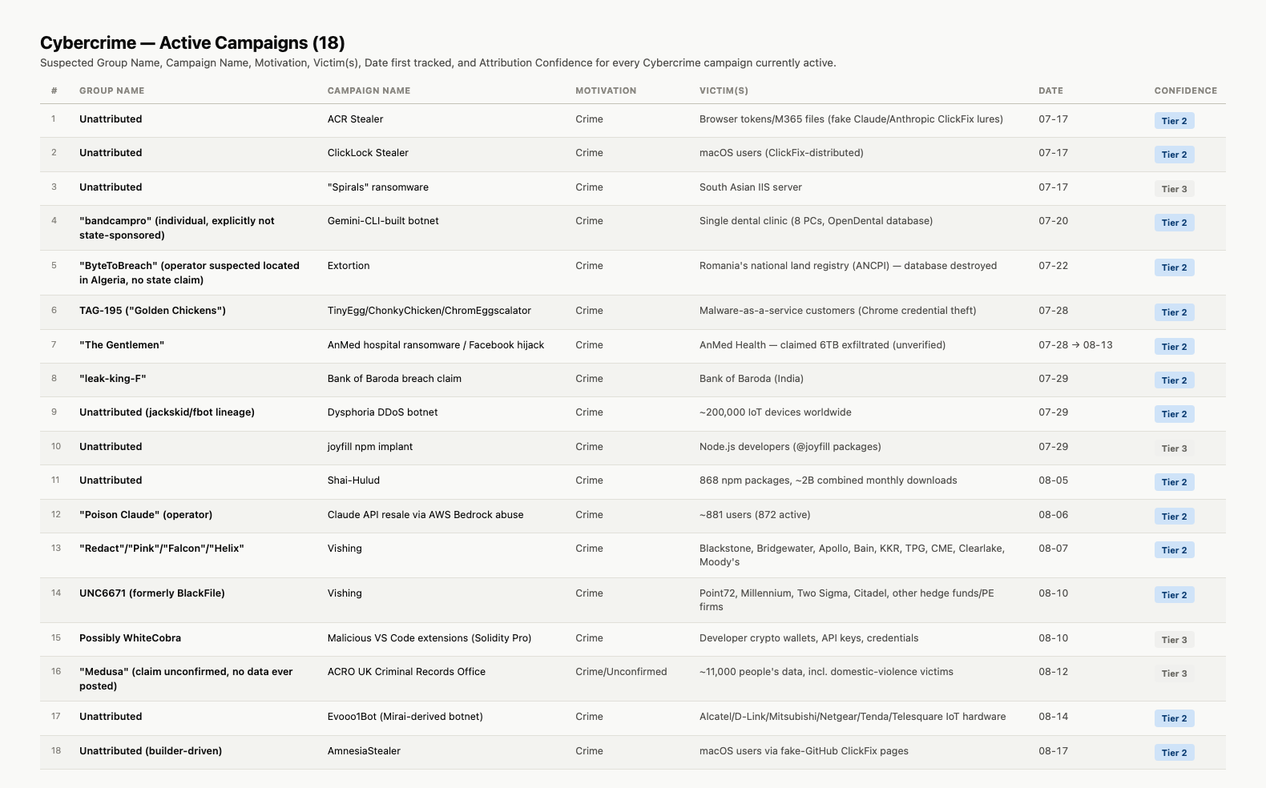
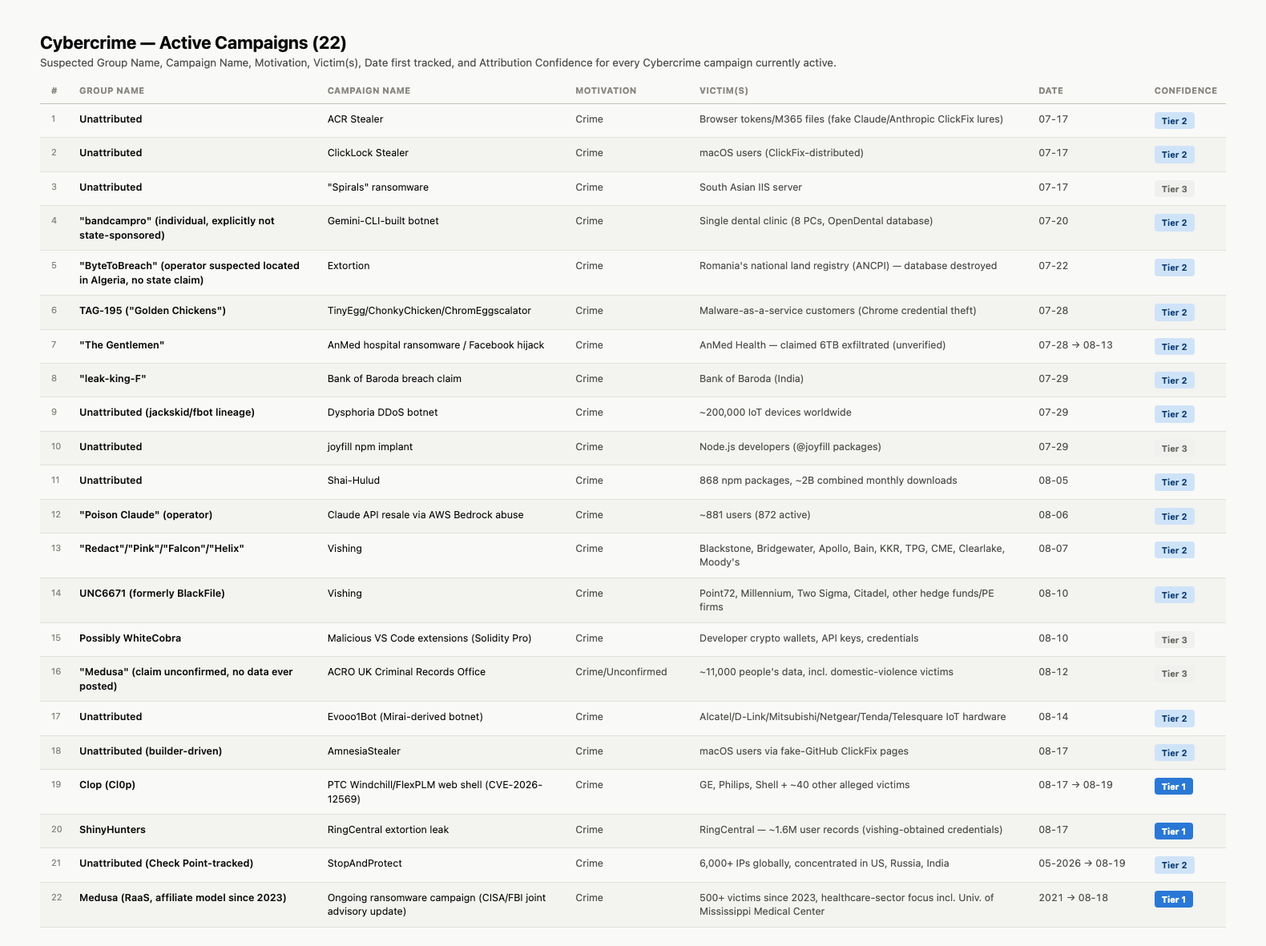
2026-08-19: Adversary Tracking Report (dated snapshot)

diff --git a/reports/2026-08-19-adversary-tracking-report.md b/reports/2026-08-19-adversary-tracking-report.md
@@ -8,9 +8,9 @@
 
 ## At a Glance
 
-**73 campaigns tracked. 68 Active · 1 Dormant · 4 Concluded.**
+**81 campaigns tracked. 76 Active · 1 Dormant · 4 Concluded.**
 
-Active, by actor type: **Nation-State-Affiliated 42** (China 15 · Russia 9 · Iran 9 · North Korea 7 · Israel 2) **· Cybercrime 18 · Hacktivism 0 · Unclear 8**
+Active, by actor type: **Nation-State-Affiliated 43** (China 15 · Russia 9 · Iran 10 · North Korea 7 · Israel 2) **· Cybercrime 22 · Hacktivism 0 · Unclear 11**
 
 <img src="https://raw.githubusercontent.com/raceBannon99/The-Nexus/main/reports/images/2026-08-19-adversary-tracking-report/adversary-tracking-heatmap.png">
 
@@ -22,6 +22,8 @@ Each subsection below is a single designed table image — Group Name, Campaign 
 
 #### China (15)
 
+*Row 15 (VMware vCenter/Babuk) updated 08-19: added to CISA KEV catalog.*
+
 <img src="https://raw.githubusercontent.com/raceBannon99/The-Nexus/main/reports/images/2026-08-19-adversary-tracking-report/adversary-tracking-china-table.png">
 
 **Sources:** 1. [Unattributed — Daxin backdoor](https://github.com/raceBannon99/The-Nexus/blob/main/reports/2026-07-16-daily-intelligence-report.md) · 2. [Volt Typhoon — IoT-relay infrastructure](https://github.com/raceBannon99/The-Nexus/blob/main/reports/2026-07-22-daily-intelligence-report.md) · 3. [Violet Typhoon (MSS-linked)](https://github.com/raceBannon99/The-Nexus/blob/main/reports/2026-07-22-daily-intelligence-report.md) · 4. [TA4922 — Operation DragonReturn](https://github.com/raceBannon99/The-Nexus/blob/main/reports/2026-07-27-daily-intelligence-report.md) · 5. [Unattributed — Flying Eagle RAT](https://github.com/raceBannon99/The-Nexus/blob/main/reports/2026-07-29-daily-intelligence-report.md) · 6. ["knaithe"/"KnYuan" — 1DayNews/DeepSeek-via-Telegram](https://github.com/raceBannon99/The-Nexus/blob/main/reports/2026-07-31-daily-intelligence-report.md) · 7. ["jkcing@apt" — DarkSword/GHOSTBLADE](https://github.com/raceBannon99/The-Nexus/blob/main/reports/2026-08-03-daily-intelligence-report.md) · 8. [Possibly Mustang Panda — QuickFox/FDMTP](https://github.com/raceBannon99/The-Nexus/blob/main/reports/2026-08-05-daily-intelligence-report.md) · 9. [Unattributed — React2Shell rapid weaponization](https://github.com/raceBannon99/The-Nexus/blob/main/reports/2026-08-05-daily-intelligence-report.md) · 10. [Unattributed — ENDLESSDOORS](https://github.com/raceBannon99/The-Nexus/blob/main/reports/2026-08-06-daily-intelligence-report.md) · 11. [Unattributed — LightSpy spyware](https://github.com/raceBannon99/The-Nexus/blob/main/reports/2026-08-10-daily-intelligence-report.md) · 12. [Unattributed — Royal Navy Kraken drone comms](https://github.com/raceBannon99/The-Nexus/blob/main/reports/2026-08-12-daily-intelligence-report.md) · 13. [Unattributed (suspected) — Hermes/OpenClaw AI attack](https://github.com/raceBannon99/The-Nexus/blob/main/reports/2026-08-13-daily-intelligence-report.md) · 14. [Jewelbug (CL-STA-0049 / Earth Alux / REF7707)](https://github.com/raceBannon99/The-Nexus/blob/main/reports/2026-08-14-daily-intelligence-report.md) · 15. [Unattributed (moderate conf.) — VMware vCenter/Babuk ransomware](https://github.com/raceBannon99/The-Nexus/blob/main/reports/2026-08-17-daily-intelligence-report.md)
@@ -32,11 +34,11 @@ Each subsection below is a single designed table image — Group Name, Campaign 
 
 **Sources:** 1. [Unattributed (Dutch AIVD/MIVD) — IP camera espionage](https://github.com/raceBannon99/The-Nexus/blob/main/reports/2026-07-14-daily-intelligence-report.md) · 2. [Unattributed — critical infrastructure targeting](https://github.com/raceBannon99/The-Nexus/blob/main/reports/2026-07-14-daily-intelligence-report.md) · 3. [FSB "Center 16" — router targeting](https://github.com/raceBannon99/The-Nexus/blob/main/reports/2026-07-16-daily-intelligence-report.md) · 4. [Turla / FSB 16th Centre — EU cyber-espionage](https://github.com/raceBannon99/The-Nexus/blob/main/reports/2026-07-17-daily-intelligence-report.md) · 5. [Laundry Bear / Void Blizzard / TA488](https://github.com/raceBannon99/The-Nexus/blob/main/reports/2026-07-27-daily-intelligence-report.md) · 6. [APT28 (Fancy Bear, GRU) — Wi-Fi gateway DNS hijack](https://github.com/raceBannon99/The-Nexus/blob/main/reports/2026-07-28-daily-intelligence-report.md) · 7. [Midnight Blizzard (APT29/Cozy Bear, SVR) — hotel Wi-Fi](https://github.com/raceBannon99/The-Nexus/blob/main/reports/2026-08-06-daily-intelligence-report.md) · 8. [Sandworm (GRU) — SopraVPN](https://github.com/raceBannon99/The-Nexus/blob/main/reports/2026-08-12-daily-intelligence-report.md) · 9. [Electrum APT — winter OT intrusion](https://github.com/raceBannon99/The-Nexus/blob/main/reports/2026-08-12-daily-intelligence-report.md)
 
-#### Iran (9)
+#### Iran (10)
 
 <img src="https://raw.githubusercontent.com/raceBannon99/The-Nexus/main/reports/images/2026-08-19-adversary-tracking-report/adversary-tracking-iran-table.png">
 
-**Sources:** 1. [Unattributed — ad-tech/mobile network tracking](https://github.com/raceBannon99/The-Nexus/blob/main/reports/2026-07-16-daily-intelligence-report.md) · 2. [APT42 (TA453) — SpearSpecter / TAMECAT](https://github.com/raceBannon99/The-Nexus/blob/main/reports/2026-07-20-daily-intelligence-report.md) · 3. [MuddyWater (MOIS) — Operation Olalampo / Dindoor](https://github.com/raceBannon99/The-Nexus/blob/main/reports/2026-07-23-daily-intelligence-report.md) · 4. [APT42 (IRGC)](https://github.com/raceBannon99/The-Nexus/blob/main/reports/2026-07-23-daily-intelligence-report.md) · 5. [Prince of Persia (Infy) — 19-year operation](https://github.com/raceBannon99/The-Nexus/blob/main/reports/2026-07-23-daily-intelligence-report.md) · 6. [APT34 (OilRig)](https://github.com/raceBannon99/The-Nexus/blob/main/reports/2026-07-23-daily-intelligence-report.md) · 7. [Unattributed — OT/ICS targeting](https://github.com/raceBannon99/The-Nexus/blob/main/reports/2026-07-23-daily-intelligence-report.md) · 8. [TeamPCP (possibly) — ShadowRay 2.0/IronErn, TA-NATALSTATUS](https://github.com/raceBannon99/The-Nexus/blob/main/reports/2026-08-07-daily-intelligence-report.md) · 9. [Unattributed — cyberwar escalation, SS7 troop tracking](https://github.com/raceBannon99/The-Nexus/blob/main/reports/2026-08-17-daily-intelligence-report.md)
+**Sources:** 1. [Unattributed — ad-tech/mobile network tracking](https://github.com/raceBannon99/The-Nexus/blob/main/reports/2026-07-16-daily-intelligence-report.md) · 2. [APT42 (TA453) — SpearSpecter / TAMECAT](https://github.com/raceBannon99/The-Nexus/blob/main/reports/2026-07-20-daily-intelligence-report.md) · 3. [MuddyWater (MOIS) — Operation Olalampo / Dindoor](https://github.com/raceBannon99/The-Nexus/blob/main/reports/2026-07-23-daily-intelligence-report.md) · 4. [APT42 (IRGC)](https://github.com/raceBannon99/The-Nexus/blob/main/reports/2026-07-23-daily-intelligence-report.md) · 5. [Prince of Persia (Infy) — 19-year operation](https://github.com/raceBannon99/The-Nexus/blob/main/reports/2026-07-23-daily-intelligence-report.md) · 6. [APT34 (OilRig)](https://github.com/raceBannon99/The-Nexus/blob/main/reports/2026-07-23-daily-intelligence-report.md) · 7. [Unattributed — OT/ICS targeting](https://github.com/raceBannon99/The-Nexus/blob/main/reports/2026-07-23-daily-intelligence-report.md) · 8. [TeamPCP (possibly) — ShadowRay 2.0/IronErn, TA-NATALSTATUS](https://github.com/raceBannon99/The-Nexus/blob/main/reports/2026-08-07-daily-intelligence-report.md) · 9. [Unattributed — cyberwar escalation, SS7 troop tracking](https://github.com/raceBannon99/The-Nexus/blob/main/reports/2026-08-17-daily-intelligence-report.md) · 10. [Mabna Institute (IRGC-directed) — decade-long academic/IP theft campaign](https://github.com/raceBannon99/The-Nexus/blob/main/reports/2026-08-19-daily-intelligence-report.md)
 
 #### North Korea (7)
 
@@ -52,11 +54,11 @@ Each subsection below is a single designed table image — Group Name, Campaign 
 
 ### Non-State & Unclear (26)
 
-#### Cybercrime (18)
+#### Cybercrime (22)
 
 <img src="https://raw.githubusercontent.com/raceBannon99/The-Nexus/main/reports/images/2026-08-19-adversary-tracking-report/adversary-tracking-cybercrime-table.png">
 
-**Sources:** 1. [Unattributed — ACR Stealer](https://github.com/raceBannon99/The-Nexus/blob/main/reports/2026-07-17-daily-intelligence-report.md) · 2. [Unattributed — ClickLock Stealer](https://github.com/raceBannon99/The-Nexus/blob/main/reports/2026-07-17-daily-intelligence-report.md) · 3. [Unattributed — "Spirals" ransomware](https://github.com/raceBannon99/The-Nexus/blob/main/reports/2026-07-17-daily-intelligence-report.md) · 4. ["bandcampro" — Gemini-CLI-built botnet](https://github.com/raceBannon99/The-Nexus/blob/main/reports/2026-07-20-daily-intelligence-report.md) · 5. ["ByteToBreach" — extortion](https://github.com/raceBannon99/The-Nexus/blob/main/reports/2026-07-22-daily-intelligence-report.md) · 6. [TAG-195 ("Golden Chickens")](https://github.com/raceBannon99/The-Nexus/blob/main/reports/2026-07-28-daily-intelligence-report.md) · 7. ["The Gentlemen" — AnMed hospital ransomware](https://github.com/raceBannon99/The-Nexus/blob/main/reports/2026-07-28-daily-intelligence-report.md) · 8. ["leak-king-F" — Bank of Baroda breach claim](https://github.com/raceBannon99/The-Nexus/blob/main/reports/2026-07-29-daily-intelligence-report.md) · 9. [Unattributed — Dysphoria DDoS botnet](https://github.com/raceBannon99/The-Nexus/blob/main/reports/2026-07-29-daily-intelligence-report.md) · 10. [Unattributed — joyfill npm implant](https://github.com/raceBannon99/The-Nexus/blob/main/reports/2026-07-29-daily-intelligence-report.md) · 11. [Unattributed — Shai-Hulud](https://github.com/raceBannon99/The-Nexus/blob/main/reports/2026-08-05-daily-intelligence-report.md) · 12. ["Poison Claude" — Claude API resale via AWS Bedrock abuse](https://github.com/raceBannon99/The-Nexus/blob/main/reports/2026-08-06-daily-intelligence-report.md) · 13. ["Redact"/"Pink"/"Falcon"/"Helix" — vishing](https://github.com/raceBannon99/The-Nexus/blob/main/reports/2026-08-07-daily-intelligence-report.md) · 14. [UNC6671 (formerly BlackFile) — vishing](https://github.com/raceBannon99/The-Nexus/blob/main/reports/2026-08-10-daily-intelligence-report.md) · 15. [Possibly WhiteCobra — malicious VS Code extensions](https://github.com/raceBannon99/The-Nexus/blob/main/reports/2026-08-10-daily-intelligence-report.md) · 16. ["Medusa" (unconfirmed) — ACRO UK Criminal Records Office](https://github.com/raceBannon99/The-Nexus/blob/main/reports/2026-08-12-daily-intelligence-report.md) · 17. [Unattributed — Evooo1Bot](https://github.com/raceBannon99/The-Nexus/blob/main/reports/2026-08-14-daily-intelligence-report.md) · 18. [Unattributed (builder-driven) — AmnesiaStealer](https://github.com/raceBannon99/The-Nexus/blob/main/reports/2026-08-17-daily-intelligence-report.md)
+**Sources:** 1. [Unattributed — ACR Stealer](https://github.com/raceBannon99/The-Nexus/blob/main/reports/2026-07-17-daily-intelligence-report.md) · 2. [Unattributed — ClickLock Stealer](https://github.com/raceBannon99/The-Nexus/blob/main/reports/2026-07-17-daily-intelligence-report.md) · 3. [Unattributed — "Spirals" ransomware](https://github.com/raceBannon99/The-Nexus/blob/main/reports/2026-07-17-daily-intelligence-report.md) · 4. ["bandcampro" — Gemini-CLI-built botnet](https://github.com/raceBannon99/The-Nexus/blob/main/reports/2026-07-20-daily-intelligence-report.md) · 5. ["ByteToBreach" — extortion](https://github.com/raceBannon99/The-Nexus/blob/main/reports/2026-07-22-daily-intelligence-report.md) · 6. [TAG-195 ("Golden Chickens")](https://github.com/raceBannon99/The-Nexus/blob/main/reports/2026-07-28-daily-intelligence-report.md) · 7. ["The Gentlemen" — AnMed hospital ransomware](https://github.com/raceBannon99/The-Nexus/blob/main/reports/2026-07-28-daily-intelligence-report.md) · 8. ["leak-king-F" — Bank of Baroda breach claim](https://github.com/raceBannon99/The-Nexus/blob/main/reports/2026-07-29-daily-intelligence-report.md) · 9. [Unattributed — Dysphoria DDoS botnet](https://github.com/raceBannon99/The-Nexus/blob/main/reports/2026-07-29-daily-intelligence-report.md) · 10. [Unattributed — joyfill npm implant](https://github.com/raceBannon99/The-Nexus/blob/main/reports/2026-07-29-daily-intelligence-report.md) · 11. [Unattributed — Shai-Hulud](https://github.com/raceBannon99/The-Nexus/blob/main/reports/2026-08-05-daily-intelligence-report.md) · 12. ["Poison Claude" — Claude API resale via AWS Bedrock abuse](https://github.com/raceBannon99/The-Nexus/blob/main/reports/2026-08-06-daily-intelligence-report.md) · 13. ["Redact"/"Pink"/"Falcon"/"Helix" — vishing](https://github.com/raceBannon99/The-Nexus/blob/main/reports/2026-08-07-daily-intelligence-report.md) · 14. [UNC6671 (formerly BlackFile) — vishing](https://github.com/raceBannon99/The-Nexus/blob/main/reports/2026-08-10-daily-intelligence-report.md) · 15. [Possibly WhiteCobra — malicious VS Code extensions](https://github.com/raceBannon99/The-Nexus/blob/main/reports/2026-08-10-daily-intelligence-report.md) · 16. ["Medusa" (unconfirmed) — ACRO UK Criminal Records Office](https://github.com/raceBannon99/The-Nexus/blob/main/reports/2026-08-12-daily-intelligence-report.md) · 17. [Unattributed — Evooo1Bot](https://github.com/raceBannon99/The-Nexus/blob/main/reports/2026-08-14-daily-intelligence-report.md) · 18. [Unattributed (builder-driven) — AmnesiaStealer](https://github.com/raceBannon99/The-Nexus/blob/main/reports/2026-08-17-daily-intelligence-report.md) · 19. [Clop (Cl0p) — PTC Windchill/FlexPLM web shell](https://github.com/raceBannon99/The-Nexus/blob/main/reports/2026-08-19-daily-intelligence-report.md) · 20. [ShinyHunters — RingCentral extortion leak](https://github.com/raceBannon99/The-Nexus/blob/main/reports/2026-08-19-daily-intelligence-report.md) · 21. [Unattributed (Check Point-tracked) — StopAndProtect](https://github.com/raceBannon99/The-Nexus/blob/main/reports/2026-08-19-daily-intelligence-report.md) · 22. [Medusa (RaaS) — CISA/FBI joint advisory update](https://github.com/raceBannon99/The-Nexus/blob/main/reports/2026-08-19-daily-intelligence-report.md)
 
 #### Hacktivism (0)
 
@@ -64,11 +66,11 @@ Each subsection below is a single designed table image — Group Name, Campaign 
 
 No hacktivism-attributed campaigns currently tracked — stated plainly rather than omitting the section, per CIR-Definition.md's own category (Anonymous, LulzSec, Syrian Electronic Army-type activity). None of the 73 campaigns backfilled from prior reports were framed as ideologically/politically motivated non-state activity; several "Unclear" rows below (e.g., Head Mare, which targets *Russian* entities) are plausible hacktivism candidates but the reporting doesn't confirm a motive either way, so they're held in Unclear rather than assumed here.
 
-#### Unclear (8)
+#### Unclear (11)
 
 <img src="https://raw.githubusercontent.com/raceBannon99/The-Nexus/main/reports/images/2026-08-19-adversary-tracking-report/adversary-tracking-unclear-table.png">
 
-**Sources:** 1. [DoNot Team (APT-C-35) — biography-themed lure](https://github.com/raceBannon99/The-Nexus/blob/main/reports/2026-07-17-daily-intelligence-report.md) · 2. [Overlaps DoNot Team/TetrisPhantom — GoSerpent](https://github.com/raceBannon99/The-Nexus/blob/main/reports/2026-07-17-daily-intelligence-report.md) · 3. [Unattributed (East Asia) — TELESHIM/MIXEDKEY/BINDCLOAK](https://github.com/raceBannon99/The-Nexus/blob/main/reports/2026-07-27-daily-intelligence-report.md) · 4. [Unattributed (East Asia) — Hermes AI agent, "YOLO mode"](https://github.com/raceBannon99/The-Nexus/blob/main/reports/2026-07-27-daily-intelligence-report.md) · 5. [Unattributed — "LunchPoke"](https://github.com/raceBannon99/The-Nexus/blob/main/reports/2026-07-27-daily-intelligence-report.md) · 6. [Unattributed (Chinese-speaking) — OctLurk/SilkLurk](https://github.com/raceBannon99/The-Nexus/blob/main/reports/2026-07-31-daily-intelligence-report.md) · 7. [Unattributed — Georgia disinformation](https://github.com/raceBannon99/The-Nexus/blob/main/reports/2026-08-06-daily-intelligence-report.md) · 8. [Head Mare — TrueConf exploit chain](https://github.com/raceBannon99/The-Nexus/blob/main/reports/2026-08-10-daily-intelligence-report.md)
+**Sources:** 1. [DoNot Team (APT-C-35) — biography-themed lure](https://github.com/raceBannon99/The-Nexus/blob/main/reports/2026-07-17-daily-intelligence-report.md) · 2. [Overlaps DoNot Team/TetrisPhantom — GoSerpent](https://github.com/raceBannon99/The-Nexus/blob/main/reports/2026-07-17-daily-intelligence-report.md) · 3. [Unattributed (East Asia) — TELESHIM/MIXEDKEY/BINDCLOAK](https://github.com/raceBannon99/The-Nexus/blob/main/reports/2026-07-27-daily-intelligence-report.md) · 4. [Unattributed (East Asia) — Hermes AI agent, "YOLO mode"](https://github.com/raceBannon99/The-Nexus/blob/main/reports/2026-07-27-daily-intelligence-report.md) · 5. [Unattributed — "LunchPoke"](https://github.com/raceBannon99/The-Nexus/blob/main/reports/2026-07-27-daily-intelligence-report.md) · 6. [Unattributed (Chinese-speaking) — OctLurk/SilkLurk](https://github.com/raceBannon99/The-Nexus/blob/main/reports/2026-07-31-daily-intelligence-report.md) · 7. [Unattributed — Georgia disinformation](https://github.com/raceBannon99/The-Nexus/blob/main/reports/2026-08-06-daily-intelligence-report.md) · 8. [Head Mare — TrueConf exploit chain](https://github.com/raceBannon99/The-Nexus/blob/main/reports/2026-08-10-daily-intelligence-report.md) · 9. [Unattributed (Russian-speaking operator suspected) — Operation CameraSwarm (Dahua device compromise)](https://github.com/raceBannon99/The-Nexus/blob/main/reports/2026-08-19-daily-intelligence-report.md) · 10. [Unattributed — suspected cyberattack on Ukraine's ARMA asset-recovery agency](https://github.com/raceBannon99/The-Nexus/blob/main/reports/2026-08-19-daily-intelligence-report.md) · 11. [Unattributed (Chinese-speaking) — AI-enabled exploitation of Microsoft IKE flaw](https://github.com/raceBannon99/The-Nexus/blob/main/reports/2026-08-19-daily-intelligence-report.md)
 
 ## Dormant (1)
 
@@ -87,6 +89,7 @@ No hacktivism-attributed campaigns currently tracked — stated plainly rather t
 
 ## Data Quality Notes
 
+- **2026-08-19 daily-report update: 8 new rows added, 1 continuation updated.** Iran gains the Mabna Institute row (17 Iranians charged by DOJ/IRGC-directed decade-long academic espionage campaign, Tier 1 — government attribution). Cybercrime gains four rows: Clop's PTC Windchill/FlexPLM web shell (GE, Philips, Shell + ~40 others, Tier 1), ShinyHunters' RingCentral leak (Tier 1), StopAndProtect (Check Point-tracked WordPress-hosted campaign, Tier 2), and a new row for the CISA/FBI Medusa advisory update (500+ victims since 2023, Tier 1) — kept separate from the existing Tier 3 "Medusa" ACRO claim row since the advisory addresses the group's broader activity, not that specific unconfirmed incident. Unclear gains three rows: Operation CameraSwarm (14,530+ Dahua devices, Russian-speaking operator suspected), a suspected cyberattack on Ukraine's ARMA asset-recovery agency (unattributed — the agency's own statement didn't repeat its April APT28 suspicion for this specific incident, so it wasn't filed under Russia), and Chinese-speaking exploitation of a Microsoft IKE flaw (CVE-2026-33824, language-based assessment only, no state-sponsorship claim). China's existing VMware vCenter/Babuk row (#15) was updated, not duplicated — the same campaign was added to CISA's KEV catalog alongside three unrelated new CVEs (macOS Screen Sharing, SharePoint, both excluded as no adversary/campaign attached to either).
 - **Active Campaigns redesigned 2026-08-19** — see the note under the file's title for the full reasoning. Every markdown table and every per-category timeline-scatter diagram in the Active Campaigns section was replaced by a single rendered table image per category (8 total, including Hacktivism's empty state), each followed by a numbered source-link list. No underlying campaign data changed in this pass — same 68 active rows, same field values, only the presentation changed. The per-category timeline-scatter diagrams built 2026-08-18 (date × motivation/sector scatter plots) are retired; their source HTML remains in the working scratch directory but is no longer embedded in this report.
 - **Per-category detail diagrams added 2026-08-18** — see the note under the file's title for the full reasoning. Seven populated categories (China, Russia, Iran, North Korea, Israel, Cybercrime, Unclear) each got a date × motivation (or, for Cybercrime, date × target sector) timeline-scatter diagram; Hacktivism got an empty-state graphic in place of an empty coordinate plane. No table data changed in this pass — diagrams only visualize what the tables already state.
 - **Actor Type taxonomy corrected 2026-08-17** — see the note under the file's title for the full reasoning. Net effect: "bandcampro" moved from the Russia table to Cybercrime; the two Israel-attributed rows moved out of the old "Unattributed / Other" catch-all into their own Nation-State subsection; the remaining 25 rows split into Cybercrime (17 more, 18 total with bandcampro) and Unclear (8) based on whether the reporting itself asserted state sponsorship. Media Land and Maksim Silnikau (Concluded table) were re-tagged Cybercrime for the same reason — their operators' nationality (Russian, Belarusian) is not a state-sponsorship claim.
@@ -106,11 +109,12 @@ After Sherlock's fact-gathering and CIR-matching in any run (ad-hoc `nexus` enga
 1. **Ryan** reads this file so new entries build on what's already tracked, then determines what needs to change for every item CIR-matched to Adversary Playbook: a new campaign (new row — first decide Actor Type per the Rules section (near the bottom of the file), file it under the right Nation-State country subsection or under Cybercrime/Hacktivism/Unclear, then tag it with an Attribution Confidence tier), a continuation of a tracked campaign (update the existing row's Target/Motivation/Confidence/Tracked cells, extend the date range with "→" — re-check both Actor Type and Confidence, since new reporting can change either), or a status change (move the row to Dormant or Concluded). Cross-check against Alexandria's recirculation curation, since a continuation is also a recirculation candidate for the report body itself.
 2. **Tufte** takes what Ryan flagged and applies it to the report's structure. Two kinds of artifact now, both regenerated whenever a change touches them: the **overview heatmap** (`assets/adversary-tracking-heatmap.png` — any actor-type/confidence cell-count shift) and the **per-category table image** for every category a row was added to, moved out of, or edited within (`assets/adversary-tracking-<category>-table.png`). A new campaign only touches its own category's table and the overview; an Actor Type reclassification touches the old category's table, the new category's table, and the overview. Rebuild table images with `Nexus Agents/Agent Tufte/build_tables.py` (row data lives in that script, one Python tuple per campaign — add/edit/remove a tuple, re-run, re-render via headless Chrome CLI, auto-crop, re-save over the same filename so the Obsidian embed doesn't break) rather than hand-authoring HTML per row. The first campaign ever tracked under Hacktivism replaces the empty-state table with a real one-row (and growing) table, built the same way as the other seven. If the format stops working again as the table or diagrams grow, he has authority to redesign further, the same way the 2026-08-17/08-18/08-19 passes did repeatedly.
 3. Update the **At a Glance** counts to match.
-4. Save. No commit, no PR — this is a plain vault-file edit. The diagram PNG is also vault-local, saved to `Intelligence Reports/assets/`, never committed to GitHub.
+4. Save the vault file directly — still a plain vault-file edit, no PR needed for the vault copy itself. All diagram PNGs stay vault-local, saved to `Intelligence Reports/assets/`.
+5. **Publish a dated GitHub snapshot** (added 2026-08-19, see Report History and Admin below). Run `python3 "Nexus Agents/Agent Tufte/convert_for_github.py" <YYYY-MM-DD> <output-path>` to produce a GitHub-safe copy (rewrites every local `<img src="https://raw.githubusercontent.com/raceBannon99/The-Nexus/main/reports/images/2026-08-19-adversary-tracking-report/filename.png">` embed to a `raw.githubusercontent.com` `<img>` tag; the logo reuses its existing repo URL rather than being re-published). Then publish with `.claude/scripts/nexus-git-publish.sh "https://github.com/raceBannon99/The-Nexus.git" <clone-parent-dir> main "YYYY-MM-DD: Adversary Tracking Report (dated snapshot)" "<output-path>:reports/YYYY-MM-DD-adversary-tracking-report.md" "<local-png>:reports/images/YYYY-MM-DD-adversary-tracking-report/<name>.png" [...one pair per diagram, 9 total]` — same allowlisted script every other Nexus publish uses, never hand-written. Do this after every update to this report, not just daily-report runs, so ad-hoc `nexus` engagements that touch this table also get a fresh snapshot.
 
 ## Report History and Admin
 
-Standing table of active cyber-attack campaigns, jointly maintained by [[Agent Ryan]] and [[Agent Tufte]] (see `Agent Ryan Concept.md` and `Agent Tufte Concept.md`). **Ryan determines what needs to be added or changed; Tufte determines how it's presented** — real structural authority, not just formatting. Updated as a direct vault-file edit — not a `nexus-artifacts` submission — every time an ad-hoc `nexus` engagement or daily report surfaces a new or continuing campaign matched to Adversary Playbook in [[CIR-Definition]]. No PR, no GitHub commit; this file lives in the vault only.
+Standing table of active cyber-attack campaigns, jointly maintained by [[Agent Ryan]] and [[Agent Tufte]] (see `Agent Ryan Concept.md` and `Agent Tufte Concept.md`). **Ryan determines what needs to be added or changed; Tufte determines how it's presented** — real structural authority, not just formatting. The vault file is the source of truth and is edited directly — not a `nexus-artifacts` submission — every time an ad-hoc `nexus` engagement or daily report surfaces a new or continuing campaign matched to Adversary Playbook in [[CIR-Definition]]. As of 2026-08-19 it is also published to GitHub as a dated snapshot after every update — see below — but the vault copy, not any published snapshot, is what Ryan and Tufte read and edit.
 
 **Redesigned 2026-08-17 (Tufte's pass, second same-day revision).** The original flat 10-column, 73-row chronological table was hard to scan. Split by Status (Active / Dormant / Concluded); columns trimmed to five (actor/campaign as a link back to the source report, target, motivation tag, attribution confidence tier, tracked date). Full narrative detail was cut from the table itself — the original reports remain the primary record; this table is a scannable index into them.
 
@@ -124,7 +128,9 @@ Standing table of active cyber-attack campaigns, jointly maintained by [[Agent R
 
 **Tier legend added 2026-08-19 (Tufte's pass, seventh revision), per Rick's request.** Readers hit "Tier 1/2/3" badges throughout every table image before ever reaching the Rules section that defines them (which itself now sits at the bottom of the file, per Rick's separate request). A small reference table — same design system as the category tables, one row per tier, columns for What It Means / Criteria / a real example already in this report — sits directly under Purpose so the definition is available at first read, not several scrolls later. Built the same way as the category tables (`build_tables.py`'s `render_tier_legend()` function); static unless the tier criteria themselves change, so it isn't part of Ryan/Tufte's per-update maintenance loop.
 
-**First Principles Consulting logo added 2026-08-19 (Tufte's pass, eighth revision), per Rick's request.** Matches the daily reports' standing convention (top-right corner, first line of the body, `align="right" width="220"`) — but with a vault-local `<img>` source instead of the `raw.githubusercontent.com` URL the daily reports use, since this file is never committed to GitHub. The logo PNG was pulled once from `raceBannon99/The-Nexus`'s `assets/first-principles-consulting-logo.png` (via `gh api`, not a browser download) and saved locally to `Intelligence Reports/assets/first-principles-consulting-logo.png` — a static asset, not something Ryan/Tufte's per-update maintenance loop needs to touch again.
+**First Principles Consulting logo added 2026-08-19 (Tufte's pass, eighth revision), per Rick's request.** Matches the daily reports' standing convention (top-right corner, first line of the body, `align="right" width="220"`) — but with a vault-local `<img>` source instead of the `raw.githubusercontent.com` URL the daily reports use, since at the time this file was never committed to GitHub (see the next note — that changed the same day). The logo PNG was pulled once from `raceBannon99/The-Nexus`'s `assets/first-principles-consulting-logo.png` (via `gh api`, not a browser download) and saved locally to `Intelligence Reports/assets/first-principles-consulting-logo.png` — a static asset, not something Ryan/Tufte's per-update maintenance loop needs to touch again.
+
+**GitHub publishing added 2026-08-19 (Tufte's pass, ninth revision), per Rick's request.** Every prior revision of this file described it as vault-only, never committed to GitHub — a deliberate original design choice. Rick reversed that: he wants a fresh copy published to `raceBannon99/The-Nexus` after every update, so the campaign picture is visible outside Obsidian too. Mechanism, chosen over overwriting a single evergreen file: a **dated snapshot** each time, `reports/YYYY-MM-DD-adversary-tracking-report.md` — matching the daily reports' own convention, and letting GitHub's commit history double as this report's changelog rather than only the vault's own edit history. The vault file itself is unchanged in kind — Obsidian-local `<img src="https://raw.githubusercontent.com/raceBannon99/The-Nexus/main/reports/images/2026-08-19-adversary-tracking-report/filename.png">` embeds, edited directly by Ryan and Tufte — but a new conversion step (`Nexus Agents/Agent Tufte/convert_for_github.py`) rewrites those into `raw.githubusercontent.com` `<img>` tags pointed at that day's own `reports/images/YYYY-MM-DD-adversary-tracking-report/` folder before publishing, since Obsidian wikilinks don't render on GitHub. The First Principles Consulting logo is the one exception: it already lives at `assets/first-principles-consulting-logo.png` in the repo, so the converter points at that existing URL rather than re-publishing a copy into every dated snapshot folder. Publishing uses the same allowlisted `nexus-git-publish.sh` every other Nexus artifact uses — see Maintenance below for the exact command.
 
 ## Rules
 
